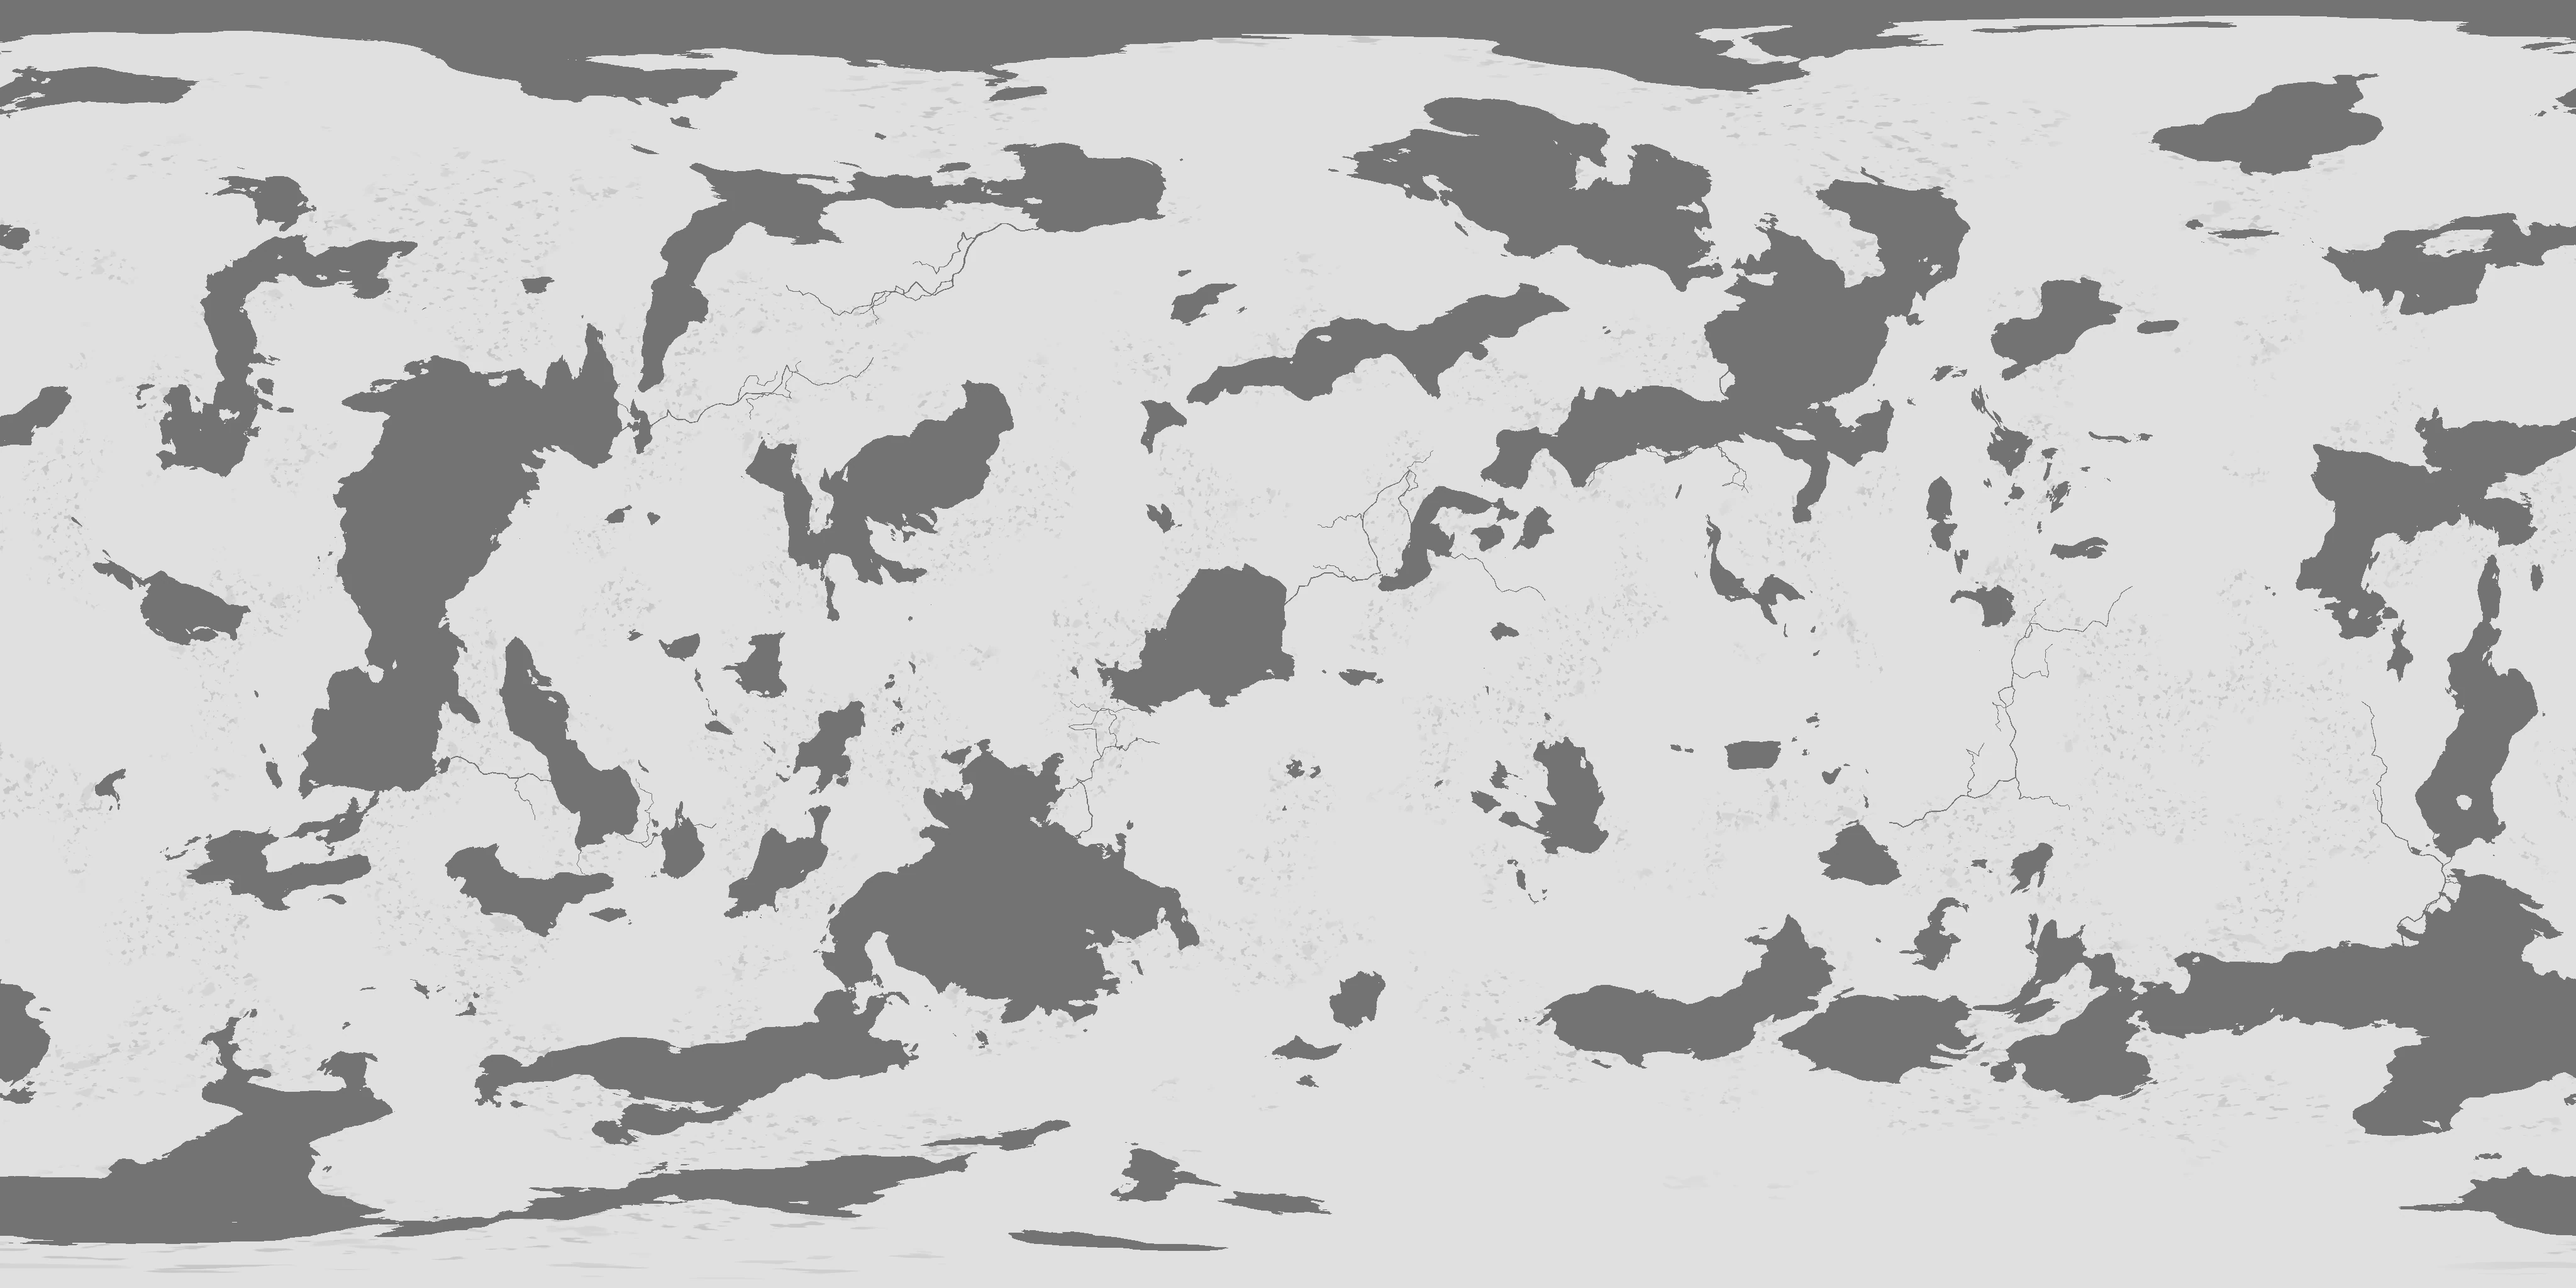
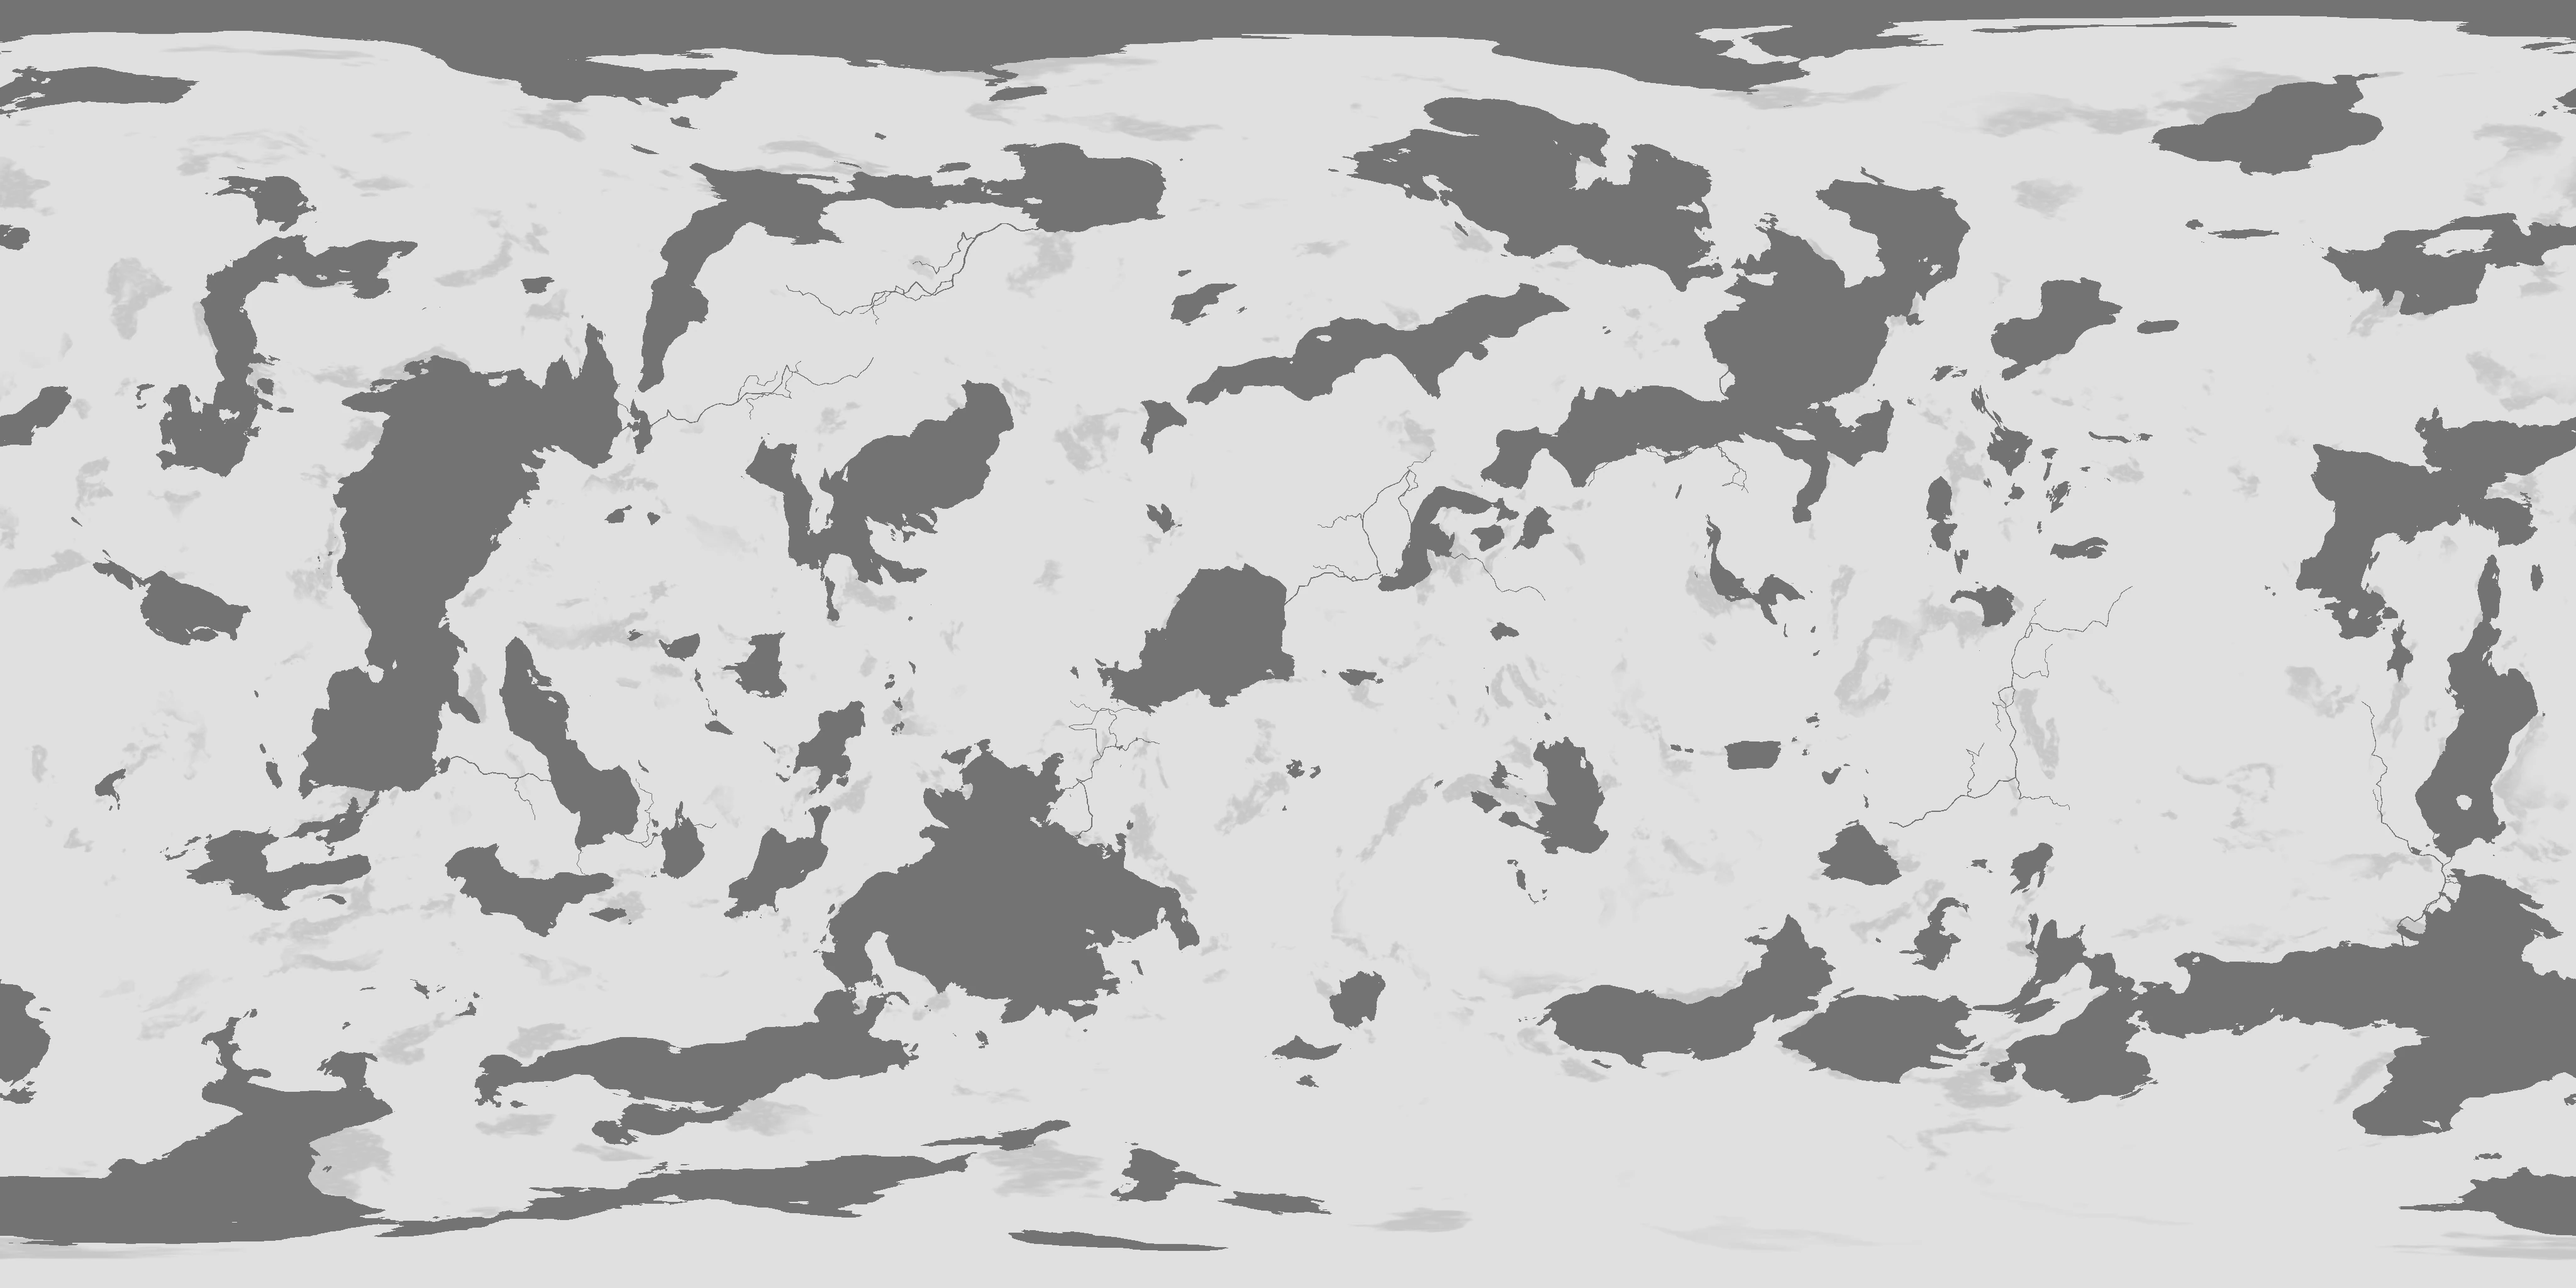
Felucia: restore the yellow-green canopy; colour as whole forests, not flecks
Single groves of bloom colour were too small to read from orbit and looked like bare
clearings. A few broad violet, crimson and magenta stands, feathered into the green
through the tree crowns, read as forests of strange trees instead.

Claude-Session: https://claude.ai/code/session_01K8R5kqduobr76DoBg9xGr3

diff --git a/tools/planets/felucia.py b/tools/planets/felucia.py
@@ -226,28 +226,31 @@ def generate(width: int, out: Path) -> None:
     green = ramp(
         biome,
         [
-            (0.0, (0.03, 0.2, 0.09)),
-            (0.35, (0.05, 0.3, 0.1)),
-            (0.65, (0.09, 0.37, 0.09)),
-            (0.9, (0.15, 0.43, 0.08)),
-            (1.0, (0.19, 0.46, 0.08)),
+            (0.0, (0.03, 0.22, 0.09)),
+            (0.3, (0.06, 0.33, 0.1)),
+            (0.55, (0.14, 0.42, 0.07)),
+            (0.8, (0.28, 0.5, 0.06)),
+            (1.0, (0.42, 0.55, 0.08)),
         ],
     )
     green = green * (0.85 + 0.3 * patch[..., None])
     # Higher ground is darker old growth; the floodplains are bright and fresh.
     old = smoothstep(0.35, 0.8, e)[..., None]
     green = green * (1 - 0.5 * old) + np.array([0.05, 0.17, 0.08], np.float32) * 0.5 * old
-    green = green * (1 - 0.35 * flood[..., None]) + np.array([0.3, 0.5, 0.1], np.float32) * 0.35 * flood[..., None]
+    green = green * (1 - 0.35 * flood[..., None]) + np.array([0.3, 0.46, 0.12], np.float32) * 0.35 * flood[..., None]
     # The wildlands: the densest, darkest canopy.
     wild = smoothstep(1.15, 0.75, ellipse(g, WILDLANDS["lat"], WILDLANDS["lon"], WILDLANDS["ax"], WILDLANDS["ay"]) + 0.25 * fbm(n[1], p * 5 + warp, 4))
     green = green * (1 - 0.55 * wild[..., None]) + np.array([0.04, 0.15, 0.07], np.float32) * 0.55 * wild[..., None]
-    # Blooms and giant fungi: groves of vivid colour, a few percent of the land.
-    region = smoothstep(0.6, 0.85, rank(fbm(n[3], p * 4 + 3.3, 3)))
-    groves = smoothstep(0.88, 0.97, rank(fbm(n[2], p * 70 + warp * 4, 3))) * region
-    groves = np.maximum(groves, 0.5 * smoothstep(0.93, 0.99, rank(fbm(n[2], p * 24 + warp * 3, 4))) * region)
-    hue = rank(fbm(n[4], p * 3 + 7.7, 3))
-    accent = ramp(hue, [(0.0, (0.62, 0.14, 0.42)), (0.35, (0.48, 0.2, 0.6)), (0.7, (0.78, 0.3, 0.12)), (1.0, (0.85, 0.42, 0.5))])
-    green = green * (1 - 0.5 * groves[..., None]) + accent * 0.5 * groves[..., None]
+    # Coloured forests: a few broad stands where the canopy itself is violet, crimson or
+    # magenta (giant fungi and strange trees). At orbital scale single groves can't be seen;
+    # whole forests of another colour can. Their edges feather into the green through the crowns.
+    crowns = billow(n[1], p * 90 + warp * 3, 3)
+    # Ragged, feathered edges: the field that bounds each stand carries fine detail too.
+    stands = smoothstep(0.88, 0.98, rank(fbm(n[2], p * 7 + warp * 2.5, 5) + 0.12 * fbm(n[5], p * 60 + warp * 4, 3)))
+    groves = stands * (0.55 + 0.45 * smoothstep(0.35, 0.8, crowns)) * (1 - smoothstep(0.5, 0.9, e))
+    hue = rank(fbm(n[4], p * 2.5 + 7.7, 3))
+    accent = ramp(hue, [(0.0, (0.42, 0.1, 0.38)), (0.4, (0.3, 0.12, 0.45)), (0.75, (0.5, 0.08, 0.18)), (1.0, (0.55, 0.15, 0.4))])
+    green = green * (1 - 0.6 * groves[..., None]) + accent * 0.6 * groves[..., None]
     # Volcanic rock on the cone, pale steaming ground at the springs, and a little tundra and
     # ice only at the poles.
     # Old lava flows run down the flanks as dark tongues; the cone's top is bare.
@@ -260,7 +263,6 @@ def generate(width: int, out: Path) -> None:
     polar = smoothstep(80, 87, np.abs(lat) + 5 * fbm(n[0], p * 6, 4))[..., None]
     green = green * (1 - polar) + np.array([0.75, 0.78, 0.76], np.float32) * polar
     # The canopy seen from above: tree crowns bunched into clumps, with shaded gaps.
-    crowns = billow(n[1], p * 90 + warp * 3, 3)
     grain = fbm(n[2], p * 400, 2)
     land = green * (0.8 + 0.3 * crowns[..., None] + 0.08 * grain[..., None])
     rgb = land * (1 - water[..., None]) + water_rgb * water[..., None]
